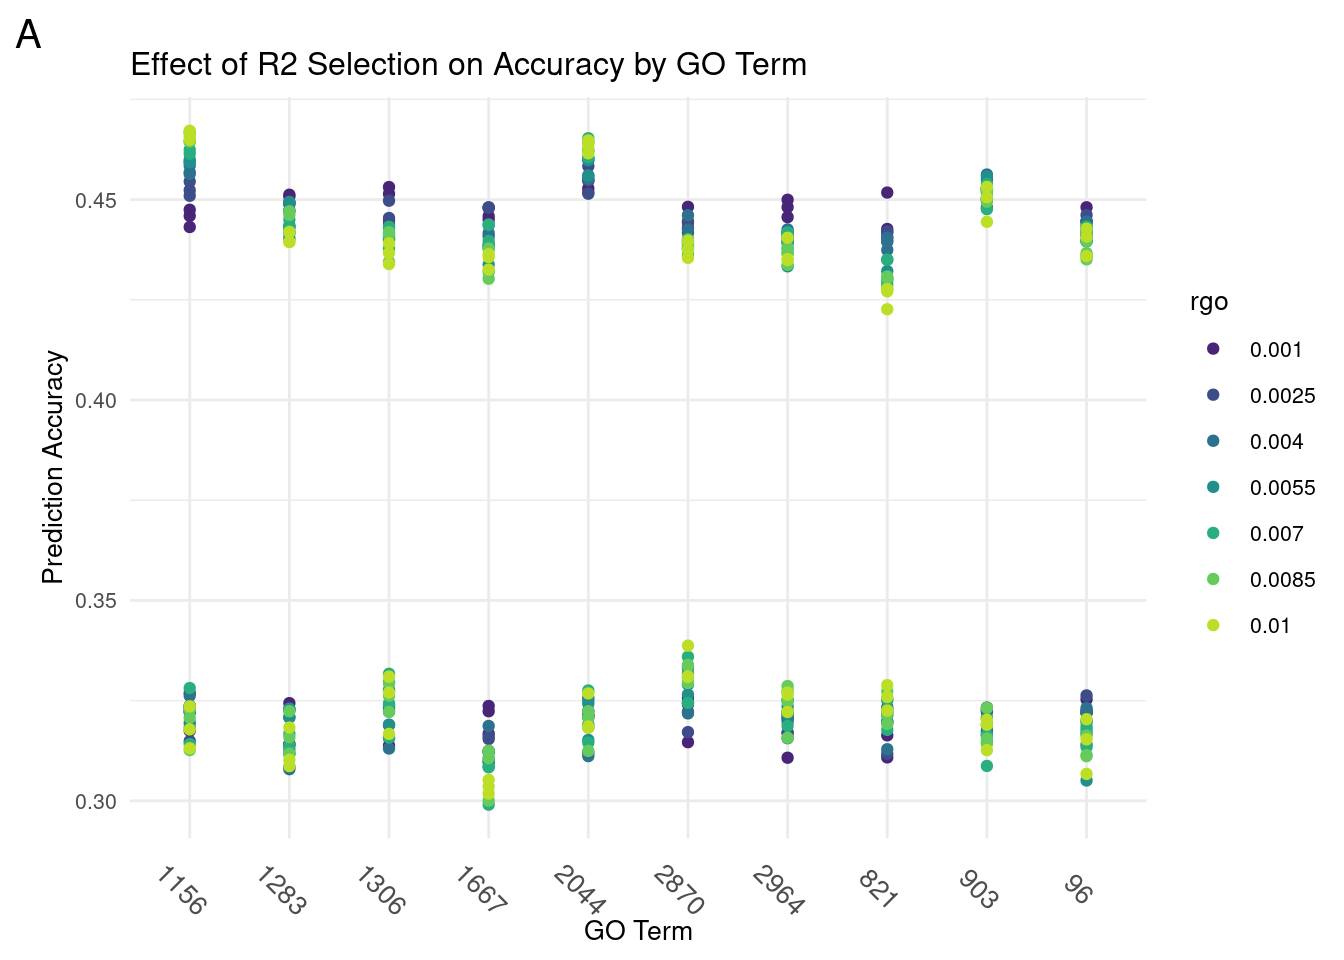
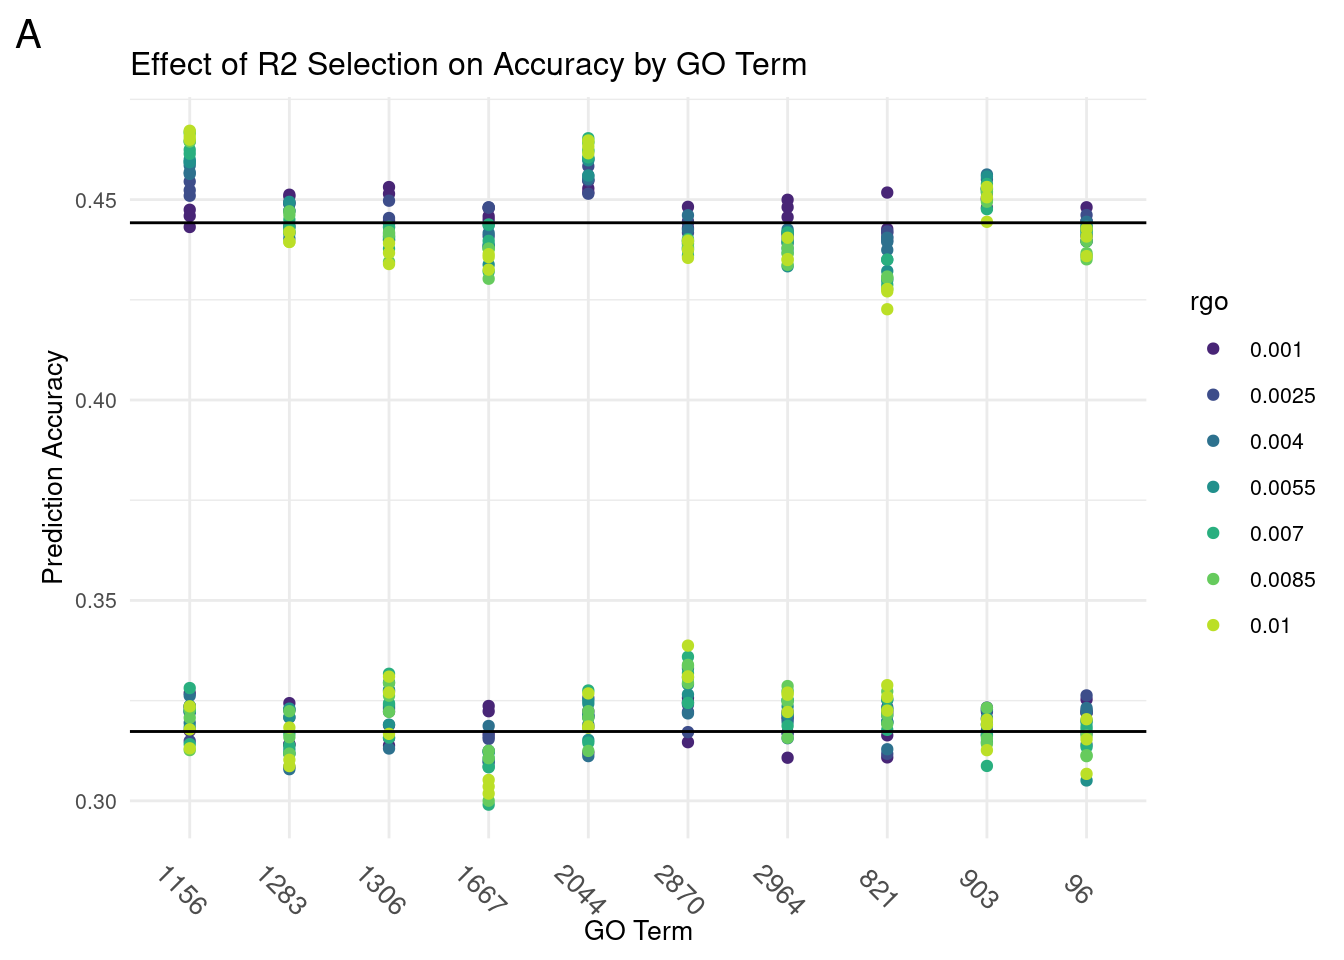
Build site.

Changed region(s): [[0.0938, 0.2188, 0.8438, 0.25]]

diff --git a/docs/goPlots.html b/docs/goPlots.html
@@ -485,16 +485,16 @@ This reproducible <a href="https://rmarkdown.rstudio.com">R Markdown</a> analysi
 <div class="panel panel-default">
 <div class="panel-heading">
 <p class="panel-title">
-<a data-toggle="collapse" data-parent="#workflowr-checks" href="#strongRepositoryversionstrongahrefhttpsgithubcomnklimkodgrpstarvetree40fb39899fe27ab01d447d3508fb65a50f042401targetblank40fb398a"> <span class="glyphicon glyphicon-ok text-success" aria-hidden="true"></span> <strong>Repository version:</strong> <a href="https://github.com/nklimko/dgrp-starve/tree/40fb39899fe27ab01d447d3508fb65a50f042401" target="_blank">40fb398</a> </a>
+<a data-toggle="collapse" data-parent="#workflowr-checks" href="#strongRepositoryversionstrongahrefhttpsgithubcomnklimkodgrpstarvetreeae54354bbd193e882878430554ff1f92a53eb35ctargetblankae54354a"> <span class="glyphicon glyphicon-ok text-success" aria-hidden="true"></span> <strong>Repository version:</strong> <a href="https://github.com/nklimko/dgrp-starve/tree/ae54354bbd193e882878430554ff1f92a53eb35c" target="_blank">ae54354</a> </a>
 </p>
 </div>
[2 lines of base64/hex data omitted]
 <div class="panel-body">
 <p>
 Great! You are using Git for version control. Tracking code development and connecting the code version to the results is critical for reproducibility.
 </p>
 <p>
-The results in this page were generated with repository version <a href="https://github.com/nklimko/dgrp-starve/tree/40fb39899fe27ab01d447d3508fb65a50f042401" target="_blank">40fb398</a>. See the <em>Past versions</em> tab to see a history of the changes made to the R Markdown and HTML files.
+The results in this page were generated with repository version <a href="https://github.com/nklimko/dgrp-starve/tree/ae54354bbd193e882878430554ff1f92a53eb35c" target="_blank">ae54354</a>. See the <em>Past versions</em> tab to see a history of the changes made to the R Markdown and HTML files.
 </p>
 <p>
 Note that you need to be careful to ensure that all relevant files for the analysis have been committed to Git prior to generating the results (you can use <code>wflow_publish</code> or <code>wflow_git_commit</code>). workflowr only checks the R Markdown file, but you know if there are other scripts or data files that it depends on. Below is the status of the Git repository when the results were generated:
@@ -584,6 +584,40 @@ Message
 Rmd
 </td>
 <td>
+<a href="https://github.com/nklimko/dgrp-starve/blob/ae54354bbd193e882878430554ff1f92a53eb35c/analysis/goPlots.Rmd" target="_blank">ae54354</a>
+</td>
+<td>
+nklimko
+</td>
+<td>
+2023-10-24
+</td>
+<td>
+wflow_publish(“analysis/goPlots.Rmd”)
+</td>
+</tr>
+<tr>
+<td>
+html
+</td>
+<td>
+<a href="https://rawcdn.githack.com/nklimko/dgrp-starve/3d373ca585ab4e94fdba5c9b399ebd1311b03457/docs/goPlots.html" target="_blank">3d373ca</a>
+</td>
+<td>
+nklimko
+</td>
+<td>
+2023-10-24
+</td>
+<td>
+Build site.
+</td>
+</tr>
+<tr>
+<td>
+Rmd
+</td>
+<td>
 <a href="https://github.com/nklimko/dgrp-starve/blob/40fb39899fe27ab01d447d3508fb65a50f042401/analysis/goPlots.Rmd" target="_blank">40fb398</a>
 </td>
 <td>
@@ -638,9 +672,23 @@ wflow_publish(“analysis/goPlots.Rmd”)
 </div>
 </div>
 <pre class="r"><code>#plotmaker funciton----
-ggMake &lt;- function(data, sex, custom.title, custom.Xlab, custom.Ylab){
+ggMake &lt;- function(data, sex, yint, custom.title, custom.Xlab, custom.Ylab){
   plothole &lt;- ggplot(data,aes(y=cor,x=term,color=rgo))+
     geom_point()+scale_color_viridis(begin = 0.1, end=0.9,discrete=TRUE) +
+    geom_hline(yintercept = yint) +
+    theme_minimal() +
+    labs(x=custom.Xlab,y=custom.Ylab, tag=sex, title=custom.title) +
+    theme(axis.text.x = element_text(angle = -45, size=10),
+          text=element_text(size=10),
+          plot.tag = element_text(size=15))
+  return(plothole)
+}
+
+allMake &lt;- function(data, sex, yint1, yint2, custom.title, custom.Xlab, custom.Ylab){
+  plothole &lt;- ggplot(data,aes(y=cor,x=term,color=rgo))+
+    geom_point()+scale_color_viridis(begin = 0.1, end=0.9,discrete=TRUE) +
+    geom_hline(yintercept = yint1) +
+    geom_hline(yintercept = yint2) +
     theme_minimal() +
     labs(x=custom.Xlab,y=custom.Ylab, tag=sex, title=custom.title) +
     theme(axis.text.x = element_text(angle = -45, size=10),
@@ -670,9 +718,14 @@ colnames(data) &lt;- c(&#39;sex&#39;, &#39;rmax&#39;, &#39;rgo&#39;, &#39;term&#
 dataM &lt;- data[data$sex==&#39;m&#39;,]
 dataF &lt;- data[data$sex==&#39;f&#39;,]
 
-gg[[1]] &lt;- ggMake(dataF, &#39;F&#39;, &#39;Effect of R2 Selection on Accuracy by GO Term&#39;, &#39;GO Term&#39;, &#39;Prediction Accuracy&#39;)
-gg[[2]] &lt;- ggMake(dataM, &#39;M&#39;, &#39;Effect of R2 Selection on Accuracy by GO Term&#39;, &#39;GO Term&#39;, &#39;Prediction Accuracy&#39;)
-gg[[3]] &lt;- ggMake(data, &#39;A&#39;, &#39;Effect of R2 Selection on Accuracy by GO Term&#39;, &#39;GO Term&#39;, &#39;Prediction Accuracy&#39;)
+yintData1 &lt;- readRDS(&#39;snake/data/sr/33_metric/go/sexf/rmax0.8/rgo0/term1/rowData.Rds&#39;)
+yintData2 &lt;- readRDS(&#39;snake/data/sr/33_metric/go/sexm/rmax0.8/rgo0/term1/rowData.Rds&#39;)
+yF &lt;- as.numeric(yintData1[5])
+yM &lt;- as.numeric(yintData2[5])
+
+gg[[1]] &lt;- ggMake(dataF, &#39;F&#39;, yF, &#39;Effect of R2 Selection on Accuracy by GO Term&#39;, &#39;GO Term&#39;, &#39;Prediction Accuracy&#39;)
+gg[[2]] &lt;- ggMake(dataM, &#39;M&#39;, yM, &#39;Effect of R2 Selection on Accuracy by GO Term&#39;, &#39;GO Term&#39;, &#39;Prediction Accuracy&#39;)
+gg[[3]] &lt;- allMake(data, &#39;A&#39;, yF, yM, &#39;Effect of R2 Selection on Accuracy by GO Term&#39;, &#39;GO Term&#39;, &#39;Prediction Accuracy&#39;)
 gg[[4]] &lt;- rmaxMake(data, &#39;A&#39;, &#39;Effect of Max R2 on Accuracy by GO Term&#39;, &#39;GO Term&#39;, &#39;Prediction Accuracy&#39;)
 
 #The data we have here is a few things. The idea behind this work was to analyze the effects of GO terms asa Bayesian prior. By using two separate priors, we aset the first one to efffects of the go terms and the second to the ffects of all non go terms. 
@@ -712,6 +765,17 @@ Date
 </tr>
 </thead>
 <tbody>
+<tr>
+<td>
+<a href="https://github.com/nklimko/dgrp-starve/blob/3d373ca585ab4e94fdba5c9b399ebd1311b03457/docs/figure/goPlots.Rmd/plot-print-all-1.png" target="_blank">3d373ca</a>
+</td>
+<td>
+nklimko
+</td>
+<td>
+2023-10-24
+</td>
+</tr>
 <tr>
 <td>
 <a href="https://github.com/nklimko/dgrp-starve/blob/957ad057da1dc3243e95116d7b1841ebfcc67b9d/docs/figure/goPlots.Rmd/plot-print-all-1.png" target="_blank">957ad05</a>
@@ -757,6 +821,17 @@ Date
 </tr>
 </thead>
 <tbody>
+<tr>
+<td>
+<a href="https://github.com/nklimko/dgrp-starve/blob/3d373ca585ab4e94fdba5c9b399ebd1311b03457/docs/figure/goPlots.Rmd/allData-1.png" target="_blank">3d373ca</a>
+</td>
+<td>
+nklimko
+</td>
+<td>
+2023-10-24
+</td>
+</tr>
 <tr>
 <td>
 <a href="https://github.com/nklimko/dgrp-starve/blob/957ad057da1dc3243e95116d7b1841ebfcc67b9d/docs/figure/goPlots.Rmd/allData-1.png" target="_blank">957ad05</a>
